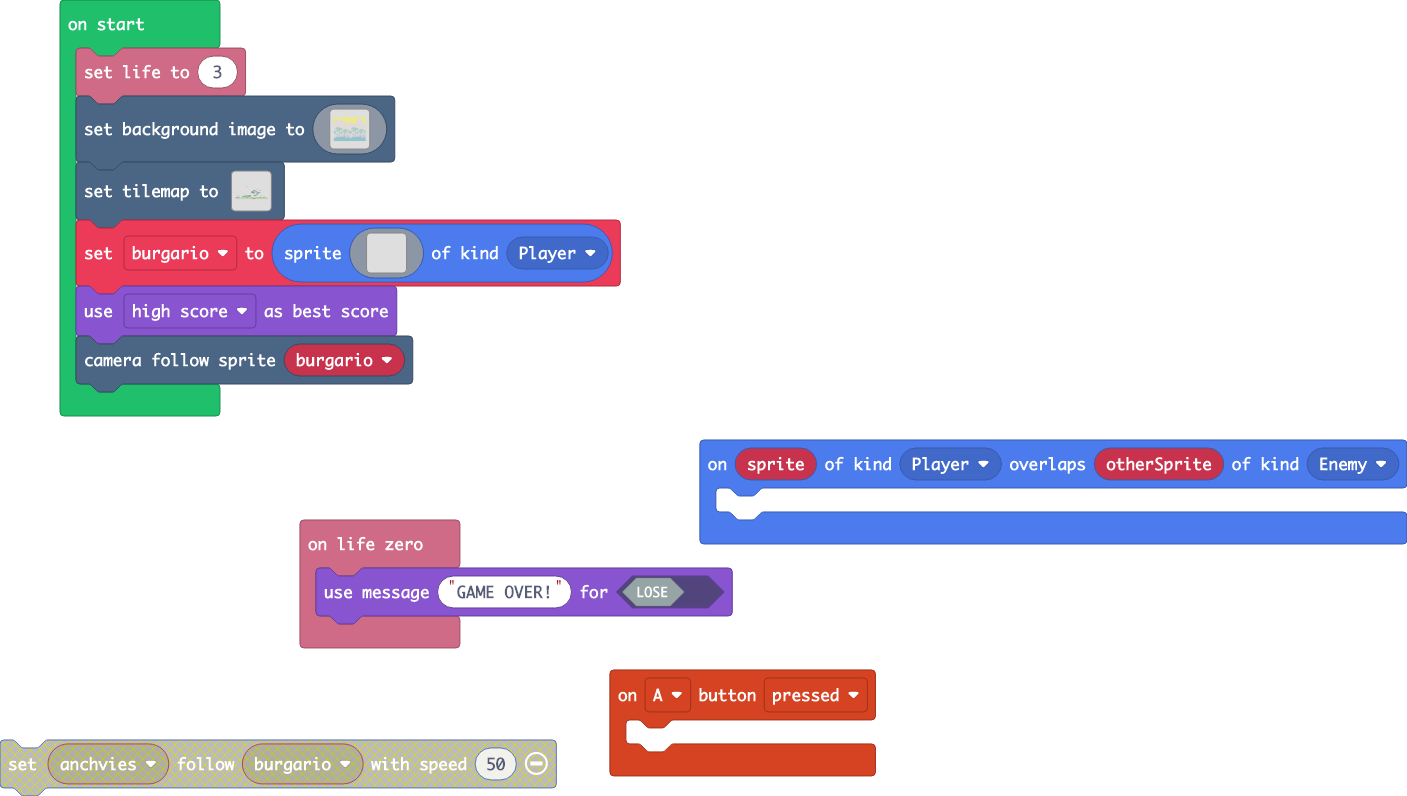
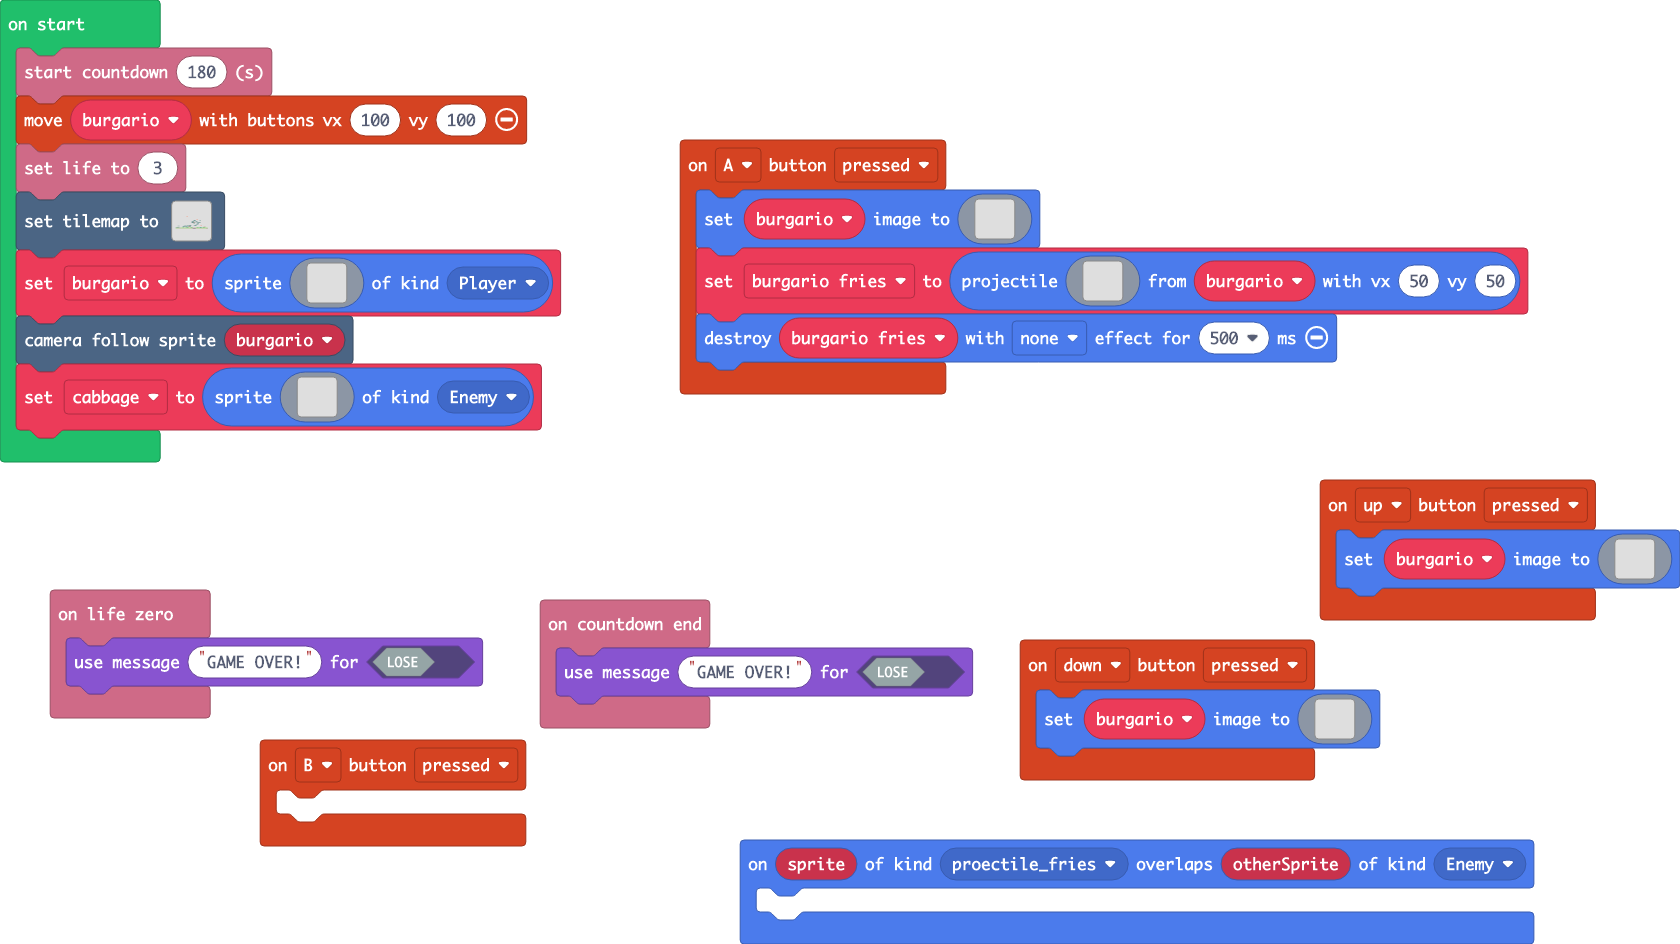
Update pxt.json, main.blocks, main.ts, tilemap.g.jres, tilemap.g.ts, images.g.jres, images.g.ts, pxt.json

diff --git a/tilemap.g.ts b/tilemap.g.ts
@@ -77,6 +77,101 @@ namespace myTiles {
 ..........2..........2...................2222222
 ..........2..........2..........................
 `, [myTiles.transparency16,sprites.castle.tilePath2,sprites.builtin.forestTiles10,sprites.castle.tilePath5,myTiles.tile2,sprites.swamp.swampTile3,myTiles.tile5,myTiles.tile25,sprites.castle.tileGrass2,myTiles.tile3], TileScale.Sixteen);
+            case "level3":
+            case "level3":return tiles.createTilemap(hex`1000100000000000000000000000000000000000000000000000000000000000000000000000000000000000000000000000000000000000000000000000000000000000000000000000000000000000000000000000000000000000000000000000000000000000000000000000000000000000000000000000000000000000000000000000000000000000000000000000000000000000000000000000000000000000000000000000000000000000000000000000000000000000000000000000000000000000000000000000000000000000000000000000000000000000000000000000000000000000000000000000000000000000000000000000000000000000`, img`
+. . . . . . . . . . . . . . . . 
+. . . . . . . . . . . . . . . . 
+. . . . . . . . . . . . . . . . 
+. . . . . . . . . . . . . . . . 
+. . . . . . . . . . . . . . . . 
+. . . . . . . . . . . . . . . . 
+. . . . . . . . . . . . . . . . 
+. . . . . . . . . . . . . . . . 
+. . . . . . . . . . . . . . . . 
+. . . . . . . . . . . . . . . . 
+. . . . . . . . . . . . . . . . 
+. . . . . . . . . . . . . . . . 
+. . . . . . . . . . . . . . . . 
+. . . . . . . . . . . . . . . . 
+. . . . . . . . . . . . . . . . 
+. . . . . . . . . . . . . . . . 
+`, [myTiles.transparency16], TileScale.Sixteen);
+            case "level4":
+            case "level4":return tiles.createTilemap(hex`1000100000000000000000000000000000000000000000000000000000000000000000000000000000000000000000000000000000000000000000000000000000000000000000000000000000000000000000000000000000000000000000000000000000000000000000000000000000000000000000000000000000000000000000000000000000000000000000000000000000000000000000000000000000000000000000000000000000000000000000000000000000000000000000000000000000000000000000000000000000000000000000000000000000000000000000000000000000000000000000000000000000000000000000000000000000000000`, img`
+. . . . . . . . . . . . . . . . 
+. . . . . . . . . . . . . . . . 
+. . . . . . . . . . . . . . . . 
+. . . . . . . . . . . . . . . . 
+. . . . . . . . . . . . . . . . 
+. . . . . . . . . . . . . . . . 
+. . . . . . . . . . . . . . . . 
+. . . . . . . . . . . . . . . . 
+. . . . . . . . . . . . . . . . 
+. . . . . . . . . . . . . . . . 
+. . . . . . . . . . . . . . . . 
+. . . . . . . . . . . . . . . . 
+. . . . . . . . . . . . . . . . 
+. . . . . . . . . . . . . . . . 
+. . . . . . . . . . . . . . . . 
+. . . . . . . . . . . . . . . . 
+`, [myTiles.transparency16], TileScale.Sixteen);
+            case "level5":
+            case "level5":return tiles.createTilemap(hex`1000100000000000000000000000000000000000000000000000000000000000000000000000000000000000000000000000000000000000000000000000000000000000000000000000000000000000000000000000000000000000000000000000000000000000000000000000000000000000000000000000000000000000000000000000000000000000000000000000000000000000000000000000000000000000000000000000000000000000000000000000000000000000000000000000000000000000000000000000000000000000000000000000000000000000000000000000000000000000000000000000000000000000000000000000000000000000`, img`
+. . . . . . . . . . . . . . . . 
+. . . . . . . . . . . . . . . . 
+. . . . . . . . . . . . . . . . 
+. . . . . . . . . . . . . . . . 
+. . . . . . . . . . . . . . . . 
+. . . . . . . . . . . . . . . . 
+. . . . . . . . . . . . . . . . 
+. . . . . . . . . . . . . . . . 
+. . . . . . . . . . . . . . . . 
+. . . . . . . . . . . . . . . . 
+. . . . . . . . . . . . . . . . 
+. . . . . . . . . . . . . . . . 
+. . . . . . . . . . . . . . . . 
+. . . . . . . . . . . . . . . . 
+. . . . . . . . . . . . . . . . 
+. . . . . . . . . . . . . . . . 
+`, [myTiles.transparency16], TileScale.Sixteen);
+            case "level6":
+            case "level6":return tiles.createTilemap(hex`1000100000000000000000000000000000000000000000000000000000000000000000000000000000000000000000000000000000000000000000000000000000000000000000000000000000000000000000000000000000000000000000000000000000000000000000000000000000000000000000000000000000000000000000000000000000000000000000000000000000000000000000000000000000000000000000000000000000000000000000000000000000000000000000000000000000000000000000000000000000000000000000000000000000000000000000000000000000000000000000000000000000000000000000000000000000000000`, img`
+. . . . . . . . . . . . . . . . 
+. . . . . . . . . . . . . . . . 
+. . . . . . . . . . . . . . . . 
+. . . . . . . . . . . . . . . . 
+. . . . . . . . . . . . . . . . 
+. . . . . . . . . . . . . . . . 
+. . . . . . . . . . . . . . . . 
+. . . . . . . . . . . . . . . . 
+. . . . . . . . . . . . . . . . 
+. . . . . . . . . . . . . . . . 
+. . . . . . . . . . . . . . . . 
+. . . . . . . . . . . . . . . . 
+. . . . . . . . . . . . . . . . 
+. . . . . . . . . . . . . . . . 
+. . . . . . . . . . . . . . . . 
+. . . . . . . . . . . . . . . . 
+`, [myTiles.transparency16], TileScale.Sixteen);
+            case "level7":
+            case "level7":return tiles.createTilemap(hex`1000100000000000000000000000000000000000000000000000000000000000000000000000000000000000000000000000000000000000000000000000000000000000000000000000000000000000000000000000000000000000000000000000000000000000000000000000000000000000000000000000000000000000000000000000000000000000000000000000000000000000000000000000000000000000000000000000000000000000000000000000000000000000000000000000000000000000000000000000000000000000000000000000000000000000000000000000000000000000000000000000000000000000000000000000000000000000`, img`
+. . . . . . . . . . . . . . . . 
+. . . . . . . . . . . . . . . . 
+. . . . . . . . . . . . . . . . 
+. . . . . . . . . . . . . . . . 
+. . . . . . . . . . . . . . . . 
+. . . . . . . . . . . . . . . . 
+. . . . . . . . . . . . . . . . 
+. . . . . . . . . . . . . . . . 
+. . . . . . . . . . . . . . . . 
+. . . . . . . . . . . . . . . . 
+. . . . . . . . . . . . . . . . 
+. . . . . . . . . . . . . . . . 
+. . . . . . . . . . . . . . . . 
+. . . . . . . . . . . . . . . . 
+. . . . . . . . . . . . . . . . 
+. . . . . . . . . . . . . . . . 
+`, [myTiles.transparency16], TileScale.Sixteen);
         }
         return null;
     })

diff --git a/main.ts b/main.ts
@@ -1,32 +1,103 @@
-controller.A.onEvent(ControllerButtonEvent.Pressed, function () {
+namespace SpriteKind {
+    export const proectile_fries = SpriteKind.create()
+}
+controller.up.onEvent(ControllerButtonEvent.Pressed, function () {
+    burgario.setImage(img`
+        . . . . . . . . . . . . . . . . 
+        . . . . . . . . . . . . . . . . 
+        . . . . . . . . . . . . . . . . 
+        . . . . . . . . . . . . . . . . 
+        . . . . . . . . . . . . . . . . 
+        . . . . . . . . . . . . . . . . 
+        . . . . . . . . . . . . . . . . 
+        . . . . . . . . . . . . . . . . 
+        . . . . . . . . . . . . . . . . 
+        . . . . . . . . . . . . . . . . 
+        . . . . . . . . . . . . . . . . 
+        . . . . . . . . . . . . . . . . 
+        . . . . . . . . . . . . . . . . 
+        . . . . . . . . . . . . . . . . 
+        . . . . . . . . . . . . . . . . 
+        . . . . . . . . . . . . . . . . 
+        `)
+})
+controller.B.onEvent(ControllerButtonEvent.Pressed, function () {
 	
+})
+controller.A.onEvent(ControllerButtonEvent.Pressed, function () {
+    burgario.setImage(img`
+        . . . . . . . . . . . . . . . . 
+        . . . . . . . . . . . . . . . . 
+        . . . . . . . . . . . . . . . . 
+        . . . . . . . . . . . . . . . . 
+        . . . . . . . . . . . . . . . . 
+        . . . . . . . . . . . . . . . . 
+        . . . . . . . . . . . . . . . . 
+        . . . . . . . . . . . . . . . . 
+        . . . . . . . . . . . . . . . . 
+        . . . . . . . . . . . . . . . . 
+        . . . . . . . . . . . . . . . . 
+        . . . . . . . . . . . . . . . . 
+        . . . . . . . . . . . . . . . . 
+        . . . . . . . . . . . . . . . . 
+        . . . . . . . . . . . . . . . . 
+        . . . . . . . . . . . . . . . . 
+        `)
+    burgario_fries = sprites.createProjectileFromSprite(assets.image`burgario fries`, burgario, 50, 50)
+    sprites.destroy(burgario_fries, effects.none, 500)
+})
+info.onCountdownEnd(function () {
+    game.setGameOverMessage(false, "GAME OVER!")
+})
+sprites.onOverlap(SpriteKind.proectile_fries, SpriteKind.Enemy, function (sprite, otherSprite) {
+	
+})
+controller.down.onEvent(ControllerButtonEvent.Pressed, function () {
+    burgario.setImage(img`
+        . . . . . . . . . . . . . . . . 
+        . . . . . . . . . . . . . . . . 
+        . . . . . . . . . . . . . . . . 
+        . . . . . . . . . . . . . . . . 
+        . . . . . . . . . . . . . . . . 
+        . . . . . . . . . . . . . . . . 
+        . . . . . . . . . . . . . . . . 
+        . . . . . . . . . . . . . . . . 
+        . . . . . . . . . . . . . . . . 
+        . . . . . . . . . . . . . . . . 
+        . . . . . . . . . . . . . . . . 
+        . . . . . . . . . . . . . . . . 
+        . . . . . . . . . . . . . . . . 
+        . . . . . . . . . . . . . . . . 
+        . . . . . . . . . . . . . . . . 
+        . . . . . . . . . . . . . . . . 
+        `)
 })
 info.onLifeZero(function () {
     game.setGameOverMessage(false, "GAME OVER!")
 })
-sprites.onOverlap(SpriteKind.Player, SpriteKind.Enemy, function (sprite, otherSprite) {
-	
-})
+let burgario_fries: Sprite = null
+let burgario: Sprite = null
+info.startCountdown(180)
+controller.moveSprite(burgario, 100, 100)
 info.setLife(3)
-scene.setBackgroundImage(assets.image`background`)
 tiles.setTilemap(tilemap`level1`)
-let burgario = sprites.create(img`
-    . . . . . . . . . . . . . . . . 
-    . . . . . . . . . . . . . . . . 
-    . . . . . . . . . . . . . . . . 
-    . . . . . . . . . . . . . . . . 
-    . . . . . . . . . . . . . . . . 
-    . . . . . . . . . . . . . . . . 
-    . . . . . . . . . . . . . . . . 
-    . . . . . . . . . . . . . . . . 
-    . . . . . . . . . . . . . . . . 
-    . . . . . . . . . . . . . . . . 
-    . . . . . . . . . . . . . . . . 
-    . . . . . . . . . . . . . . . . 
-    . . . . . . . . . . . . . . . . 
-    . . . . . . . . . . . . . . . . 
-    . . . . . . . . . . . . . . . . 
-    . . . . . . . . . . . . . . . . 
-    `, SpriteKind.Player)
-game.setGameOverScoringType(game.ScoringType.HighScore)
+burgario = sprites.create(assets.image`cabbage sprite`, SpriteKind.Player)
 scene.cameraFollowSprite(burgario)
+let cabbage = sprites.create(img`
+    . . . . . . . . . . . . . . . . 
+    . . . . . . . . . . . . . . . . 
+    . . . . . . . . . . . . . . . . 
+    . . . . . . . . . . . . . . . . 
+    . . . . . . . . . . . . . . . . 
+    . . . . . . . . . . . . . . . . 
+    . . . . . . . . . . . . . . . . 
+    . . . . . . . . . . . . . . . . 
+    . . . . . . . . . . . . . . . . 
+    . . . . . . . . . . . . . . . . 
+    . . . . . . . . . . . . . . . . 
+    . . . . . . . . . . . . . . . . 
+    . . . . . . . . . . . . . . . . 
+    . . . . . . . . . . . . . . . . 
+    . . . . . . . . . . . . . . . . 
+    . . . . . . . . . . . . . . . . 
+    `, SpriteKind.Enemy)

diff --git a/images.g.ts b/images.g.ts
@@ -3,11 +3,6 @@ namespace myImages {
 
     helpers._registerFactory("image", function(name: string) {
         switch(helpers.stringTrim(name)) {
-            case "image2":
-            case "blank":return img`
-. . 
-. . 
-`;
             case "*I3x=@AnYTeNAqrIrfN5":
             case "stand":return img`
 . . . . . . . f f f f f . . . . 
@@ -272,6 +267,44 @@ ccccc66666666666666666666666666666666666ccccc66666666666666666666666666666666666
 6666666666666666666666666666666666666666666666666666666666666666666666666666666666666666666666666666666666666666666666666666666666666666666666666666666666666666
 6666666666666666666666666666666666666666666666666666666666666666666666666666666666666666666666666666666666666666666666666666666666666666666666666666666666666666
 6666666666666666666666666666666666666666666666666666666666666666666666666666666666666666666666666666666666666666666666666666666666666666666666666666666666666666
+`;
+            case "image3":
+            case "cabbage sprite":return img`
+. . . . . . . . . . . . . . . . 
+. . . . . . . . . . . . . . . . 
+. . . . . . . . . . . . . . . . 
+. . . . . . . . . . . . . . . . 
+. . . . . . . . . . . . . . . . 
+. . . . . . . . . . . . . . . . 
+. . . . . . . . . . . . . . . . 
+. . . . . . . . . . . . . . . . 
+. . . . . . . . . . . . . . . . 
+. . . . . . . . . . . . . . . . 
+. . . . . . . . . . . . . . . . 
+. . . . . . . . . . . . . . . . 
+. . . . . . . . . . . . . . . . 
+. . . . . . . . . . . . . . . . 
+. . . . . . . . . . . . . . . . 
+. . . . . . . . . . . . . . . . 
+`;
+            case "image2":
+            case "burgario fries":return img`
+. . . . . . . . . . . . . . . . 
+. . . . . . . . . . . . . . . . 
+. . . . . . . . . . . . . . . . 
+. . . . . . . . . . . . . . . . 
+. . . . . . . . . . . . . . . . 
+. . . . . . . . . . . . . . . . 
+. . . . . . . . . . . . . . . . 
+. . . . . . . . . . . . . . . . 
+. . . . . . . . . . . . . . . . 
+. . . . . . . . . . . . . . . . 
+. . . . . . . . . . . . . . . . 
+. . . . . . . . . . . . . . . . 
+. . . . . . . . . . . . . . . . 
+. . . . . . . . . . . . . . . . 
+. . . . . . . . . . . . . . . . 
+. . . . . . . . . . . . . . . . 
 `;
         }
         return null;
